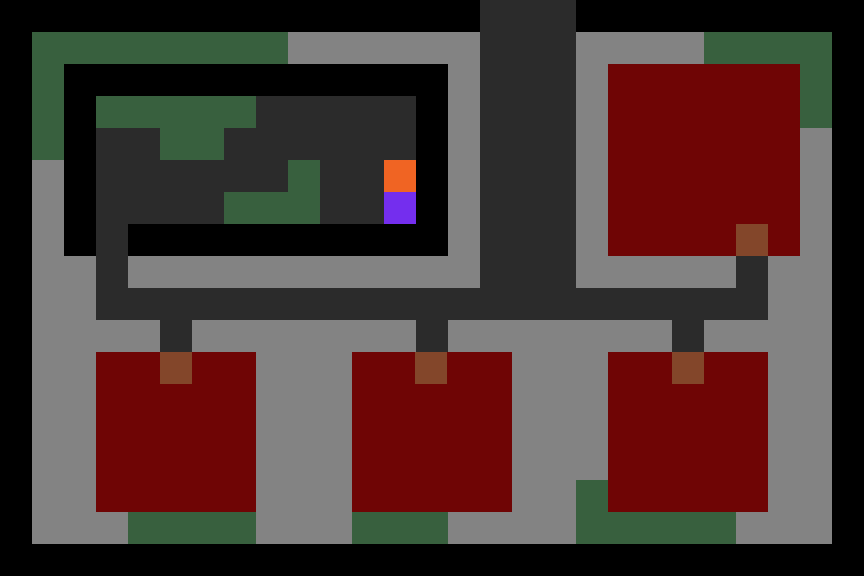
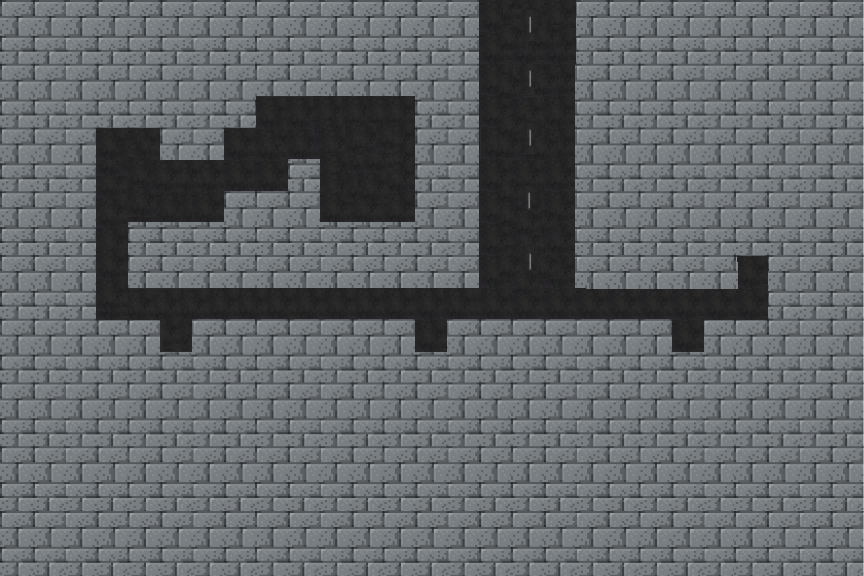
calque et ajout

diff --git a/src/affichage.c b/src/affichage.c
@@ -11,13 +11,12 @@
 int init_background(game_t * game) {
 
     char ext[5] = ".png";
-    char chemin[100] = "img/background/fond";
+    char chemin[30] = "img/background/fond";
 
     for(int i = 0; i < 8; i++) {
         chemin[19] = '0' + (i + 1);
         chemin[20] = '\0';
         strcat(chemin, ext);
-        printf("%s\n", chemin);
 
         //charger fond
         SDL_Surface * imageSurface = IMG_Load(chemin);
@@ -74,13 +73,43 @@ int init_background(game_t * game) {
     return 1;
 }
 
+int init_calque(game_t * game) {
 
+    char ext[5] = ".png";
+    char chemin[30] = "img/calque/calque";
+
+    for(int i = 0; i < 2; i++) {
+        chemin[17] = '0' + (i + 1);
+        chemin[18] = '\0';
+        strcat(chemin, ext);
+
+        //charger fond
+        SDL_Surface * imageSurface = IMG_Load(chemin);
+        if (!imageSurface) {
+            printf("Erreur de chargement de l'image : %s\n", IMG_GetError());
+            IMG_Quit();
+
+            return 0;
+        }
+
+        // Convertir la fond en texture
+        game->calqueTexture[i] = SDL_CreateTextureFromSurface(game->renderer, imageSurface);
+        SDL_FreeSurface(imageSurface);
+        if (!game->calqueTexture[i]) {
+            printf("Erreur de création de la texture : %s\n", SDL_GetError());
+            return 0;
+        }
+    }
+}
 
 //dessine le background
 void draw_background(game_t * game) {
     SDL_RenderCopy(game->renderer,game->backgroundTexture[game->mat_active] , NULL, &game->dms_win);                 // Dessiner le background
 }
 
+void draw_calque(game_t * game) {
+    SDL_RenderCopy(game->renderer,game->calqueTexture[game->mat_active] , NULL, &game->dms_win);                 // Dessiner le background
+}
 
 /*=================================================*/
 
@@ -428,23 +457,49 @@ void draw_player(game_t *game, SDL_Rect *obj, img_player_t * sprite_playerH, jou
     
 }
 void draw_all(game_t *game,joueur_t *j,SDL_Rect *sprite_p,SDL_Rect *pnj_sprite, img_pnj_t * sprite_pnj,img_player_t * sprite_playerH){
-        draw_background(game);
+    draw_background(game);      
+    if(game->mat[game->mat_active][j->y+1][j->x] == BARRIERE || game->mat[game->mat_active][j->y+1][j->x] == BAT){
         if(game->mat[game->mat_active][j->y-1][j->x] == PNJ){
-            for(int i = 0; i < 24;i++){
-                if((pnj[i].id_map -1) == j->numMap){
-                    draw_pnj(game,&pnj_sprite[i],sprite_pnj,&pnj[i],j);
-                }
-             }
-            draw_player(game, sprite_p, sprite_playerH, j);           //dessine le joueur
-        }
-        else{
-            draw_player(game, sprite_p, sprite_playerH, j);           //dessine le joueur 
+            draw_calque(game);
             for(int i = 0; i < 24;i++){
                 if((pnj[i].id_map -1) == j->numMap){
                     draw_pnj(game,&pnj_sprite[i],sprite_pnj,&pnj[i],j);
                 }
             }
+        draw_player(game, sprite_p, sprite_playerH, j);           //dessine le joueur
         }
+        else{
+            
+            draw_player(game, sprite_p, sprite_playerH, j);           //dessine le joueur
+            draw_calque(game);
+            for(int i = 0; i < 24;i++){
+                if((pnj[i].id_map -1) == j->numMap){
+                    draw_pnj(game,&pnj_sprite[i],sprite_pnj,&pnj[i],j);
+                }
+            }
+        }         
+    }
+    else{
+        if(game->mat[game->mat_active][j->y-1][j->x] == PNJ){
+            draw_calque(game);
+            for(int i = 0; i < 24;i++){
+                if((pnj[i].id_map -1) == j->numMap){
+                    draw_pnj(game,&pnj_sprite[i],sprite_pnj,&pnj[i],j);
+                }
+            }
+            draw_player(game, sprite_p, sprite_playerH, j);           //dessine le joueur
+        }
+        else{
+            
+        draw_calque(game);
+        draw_player(game, sprite_p, sprite_playerH, j);           //dessine le joueur
+        for(int i = 0; i < 24;i++){
+                if((pnj[i].id_map -1) == j->numMap){
+                    draw_pnj(game,&pnj_sprite[i],sprite_pnj,&pnj[i],j);
+                }
+            }
+        } 
+    }
 }
 
 void draw_pnj(game_t *game, SDL_Rect *obj, img_pnj_t * sprite_pnj, pnj_t *pnj, joueur_t *j) { 

diff --git a/lib/affichage.h b/lib/affichage.h
@@ -14,7 +14,11 @@
 
 //FONCTION BACKGROUND
 int init_background(game_t * game);     //initalise la background
+int init_calque(game_t * game) ;
+
 void draw_background(game_t * game);    //dessine le background
+void draw_calque(game_t * game) ;
+
 
 //FONCTION MAT
 int init_mat(game_t *game, int taille_x, int taille_y);               //initialise la matrice

diff --git a/lib/global.h b/lib/global.h
@@ -96,6 +96,7 @@ typedef struct {
     SDL_Window* window;
     SDL_Renderer* renderer;
     SDL_Texture* backgroundTexture[8];
+    SDL_Texture* calqueTexture[6];
     TTF_Font* police;
     int *** mat ;
     float scale;                        //echelle qui adapte l'affichage à l'ecran et à la taille de l'image

diff --git a/src/main.c b/src/main.c
@@ -54,6 +54,9 @@ int main() {
     if(!init_background(&game)) {
         return -1;
     }
+    if(!init_calque(&game)) {
+        return -1;
+    }
 
     while(jeux){
         pseudo[0] = '\0';
